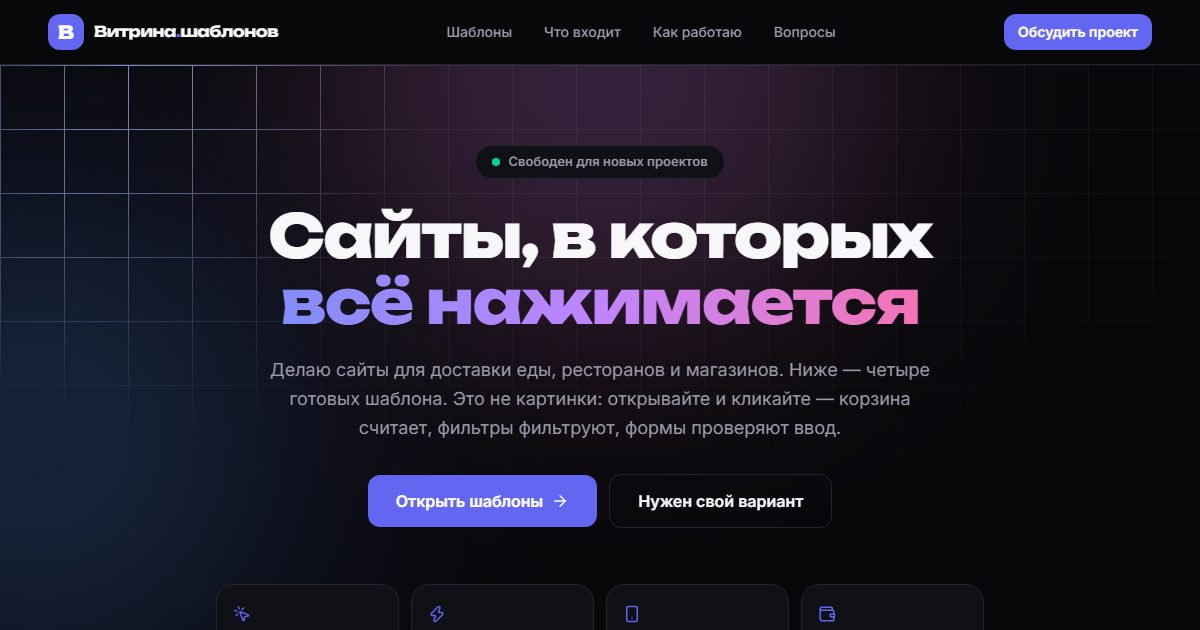
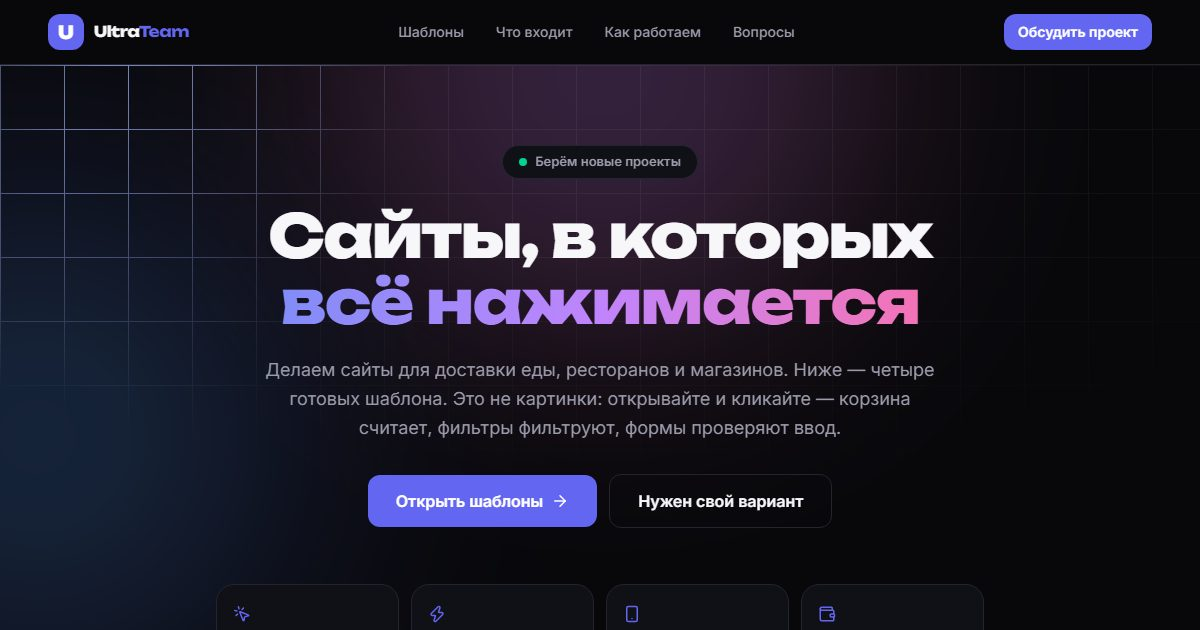
feat: витрина от имени команды UltraTeam, шрифты со своего сайта
Витрина теперь говорит от лица команды: название UltraTeam в шапке,
подвале, заголовке вкладки, иконке сайта, превью ссылок и подписи писем
с заявками. Тексты переведены с «я» на «мы». Из FAQ убрана устаревшая
фраза про «сгенерированные иллюстрации» — в демо давно настоящие фото.
Оговорка про вымышленные контакты в подвале теперь относится только
к демо-шаблонам, а не к настоящей почте рядом.

Шрифты раздаются с нашего сайта через пакеты Fontsource вместо Google
Fonts: минус два сторонних подключения и никакой зависимости от серверов
Google. Вес не изменился, страницы отрисовываются пиксель в пиксель
как раньше.

diff --git a/src/showcase/ShowcaseContact.tsx b/src/showcase/ShowcaseContact.tsx
@@ -22,19 +22,19 @@ const FAQ = [
   },
   {
     q: 'Сколько стоит поддержка?',
-    a: 'Первый месяц после запуска — бесплатно: правлю опечатки, меняю цены, чиню всё, что всплывёт. Дальше — почасово или небольшим ежемесячным пакетом, зависит от того, как часто нужно обновлять контент.',
+    a: 'Первый месяц после запуска — бесплатно: правим опечатки, меняем цены, чиним всё, что всплывёт. Дальше — почасово или небольшим ежемесячным пакетом, зависит от того, как часто нужно обновлять контент.',
   },
   {
     q: 'Кто делает тексты и фотографии?',
-    a: 'Фотографии — с вашей стороны, это критично: стоковые картинки еды видно сразу, и они снижают доверие. Тексты могу написать по вашим тезисам. В демо вместо фотографий стоят сгенерированные иллюстрации — в реальном проекте на их место встают ваши снимки.',
+    a: 'Фотографии — с вашей стороны, это критично: стоковые картинки еды видно сразу, и они снижают доверие. Тексты можем написать по вашим тезисам. В демо стоят стоковые фото — в реальном проекте на их место встают ваши снимки.',
   },
   {
     q: 'Что с хостингом и доменом?',
-    a: 'Статический сайт бесплатно живёт на Vercel или Netlify — платить нужно только за домен, это примерно 200–1500 ₽ в год в зависимости от зоны. Настройку беру на себя, аккаунты регистрируем на вас, чтобы доступы остались у вас.',
+    a: 'Статический сайт бесплатно живёт на Vercel или Netlify — платить нужно только за домен, это примерно 200–1500 ₽ в год в зависимости от зоны. Настройку берём на себя, аккаунты регистрируем на вас, чтобы доступы остались у вас.',
   },
   {
     q: 'А если мне не понравится результат?',
-    a: 'Работаю поэтапно. После прототипа вы видите живой сайт и решаете, идём дальше или нет. Если на этом этапе не нравится — расходимся, предоплата за прототип остаётся у меня, остальное не платите.',
+    a: 'Работаем поэтапно. После прототипа вы видите живой сайт и решаете, идём дальше или нет. Если на этом этапе не нравится — расходимся, предоплата за прототип остаётся у нас, остальное не платите.',
   },
 ]
 
@@ -100,7 +100,7 @@ const FORM_ENDPOINT = 'https://api.web3forms.com/submit'
 
 const CONTACTS = [
   { icon: Mail, label: 'Почта', value: EMAIL, href: `mailto:${EMAIL}` },
-  { icon: Clock, label: 'Отвечаю', value: 'Пн–Пт, 10:00–20:00 МСК', href: undefined },
+  { icon: Clock, label: 'Отвечаем', value: 'Пн–Пт, 10:00–20:00 МСК', href: undefined },
 ]
 
 type ContactErrors = Partial<Record<'name' | 'contact' | 'message', string>>
@@ -187,7 +187,7 @@ ${message}`
       }
 
       setSent(true)
-      toast('Заявка отправлена — отвечу в течение дня')
+      toast('Заявка отправлена — ответим в течение дня')
     } catch {
       // Сервис может быть недоступен или заблокирован. Молча «терять» заявку нельзя:
       // показываем прямые контакты и готовое письмо.
@@ -219,7 +219,7 @@ ${message}`
           </span>
           <h2 className="mt-5 font-head text-2xl font-bold text-ink">Заявка принята</h2>
           <p className="mx-auto mt-3 max-w-md text-[15px] leading-relaxed text-ink-soft">
-            {name}, спасибо. Отвечу в течение рабочего дня и пришлю несколько уточняющих вопросов
+            {name}, спасибо. Ответим в течение рабочего дня и пришлём несколько уточняющих вопросов
             по проекту «{topic}».
           </p>
           <Button variant="outline" className="mt-6" onClick={reset}>
@@ -237,7 +237,7 @@ ${message}`
           <SectionHeading
             eyebrow="Контакты"
             title="Расскажите, что нужно"
-            subtitle="Напишите пару предложений о бизнесе и о том, что должен делать сайт. Отвечу в течение рабочего дня и назову срок и цену."
+            subtitle="Напишите пару предложений о бизнесе и о том, что должен делать сайт. Ответим в течение рабочего дня и назовём срок и цену."
           />
           <ul className="mt-8 flex flex-col gap-3">
             {CONTACTS.map(({ icon: Icon, label, value, href }) => {
@@ -354,7 +354,7 @@ ${message}`
           )}
 
           <Button type="submit" size="lg" full disabled={sending}>
-            {sending ? 'Отправляю…' : 'Отправить заявку'}
+            {sending ? 'Отправляем…' : 'Отправить заявку'}
             {!sending && <Send size={17} />}
           </Button>
           <p className="text-center text-[13px] text-ink-soft">
@@ -374,10 +374,10 @@ export function ShowcaseFooter() {
       <div className="mx-auto flex w-full max-w-6xl flex-col gap-6 sm:flex-row sm:items-center sm:justify-between">
         <div>
           <span className="font-head text-[15px] font-bold">
-            Витрина<span className="text-brand">.</span>шаблонов
+            Ultra<span className="text-brand">Team</span>
           </span>
           <p className="mt-1 text-[13px] text-ink-soft">
-            Демонстрационный проект. Все компании, цены и контакты — вымышленные.
+            Компании, товары и контакты в демо-шаблонах вымышленные.
             <br />
             Фотографии — Unsplash.
           </p>

diff --git a/src/showcase/ShowcasePage.tsx b/src/showcase/ShowcasePage.tsx
@@ -9,7 +9,7 @@ import { ContactSection, FaqSection, ShowcaseFooter } from './ShowcaseContact'
 const NAV = [
   { href: '#templates', label: 'Шаблоны' },
   { href: '#features', label: 'Что входит' },
-  { href: '#process', label: 'Как работаю' },
+  { href: '#process', label: 'Как работаем' },
   { href: '#faq', label: 'Вопросы' },
 ]
 
@@ -28,10 +28,10 @@ function Header() {
       <div className="mx-auto flex h-16 w-full max-w-6xl items-center justify-between gap-4 px-4 sm:px-6">
         <a href="#top" className="flex items-center gap-2.5">
           <span className="grid h-9 w-9 place-items-center rounded-xl bg-brand text-on-brand font-head text-lg font-extrabold">
-            В
+            U
           </span>
           <span className="font-head text-[15px] font-bold tracking-tight">
-            Витрина<span className="text-brand">.</span>шаблонов
+            Ultra<span className="text-brand">Team</span>
           </span>
         </a>
 
@@ -167,7 +167,7 @@ function Hero() {
             <span className="absolute inline-flex h-full w-full animate-ping rounded-full bg-emerald-400 opacity-70" />
             <span className="relative inline-flex h-2 w-2 rounded-full bg-emerald-400" />
           </span>
-          Свободен для новых проектов
+          Берём новые проекты
         </span>
 
         <h1 className="mt-6 font-head text-[2.1rem] font-extrabold leading-[1.1] tracking-tight sm:text-5xl md:text-6xl">
@@ -179,7 +179,7 @@ function Hero() {
         </h1>
 
         <p className="mx-auto mt-5 max-w-2xl text-[17px] leading-relaxed text-ink-soft sm:text-lg">
-          Делаю сайты для доставки еды, ресторанов и магазинов. Ниже — четыре готовых шаблона.
+          Делаем сайты для доставки еды, ресторанов и магазинов. Ниже — четыре готовых шаблона.
           Это не картинки: открывайте и кликайте — корзина считает, фильтры фильтруют, формы
           проверяют ввод.
         </p>
@@ -213,7 +213,7 @@ function Hero() {
 
 export function ShowcasePage() {
   useDocumentMeta(
-    'Витрина шаблонов сайтов — портфолио веб-разработчика',
+    'UltraTeam — сайты для доставки еды, ресторанов и магазинов',
     'Живые интерактивные шаблоны сайтов: доставка суши, ресторан, интернет-магазин, магазин игрушек.',
   )
   useRevealOnScroll()

diff --git a/src/index.css b/src/index.css
@@ -5,7 +5,7 @@
    Каждый шаблон переопределяет переменные внутри своего .theme-*
    ============================================================ */
 :root {
-  --font-ui: "Inter", ui-sans-serif, system-ui, -apple-system, sans-serif;
+  --font-ui: "Inter Variable", ui-sans-serif, system-ui, -apple-system, sans-serif;
   --font-head: var(--font-ui);
 
   --surface: #ffffff;
@@ -27,8 +27,8 @@
 
 /* ---------- Витрина: тёмная «агентская» ---------- */
 .theme-showcase {
-  --font-ui: "Inter", ui-sans-serif, system-ui, sans-serif;
-  --font-head: "Unbounded", "Inter", sans-serif;
+  --font-ui: "Inter Variable", ui-sans-serif, system-ui, sans-serif;
+  --font-head: "Unbounded Variable", "Inter Variable", sans-serif;
   --surface: #08080b;
   --surface-2: #101017;
   --surface-3: #191922;
@@ -46,8 +46,8 @@
 
 /* ---------- Суши: тёмная, красно-золотая ---------- */
 .theme-sushi {
-  --font-ui: "Inter", ui-sans-serif, system-ui, sans-serif;
-  --font-head: "Unbounded", "Inter", sans-serif;
+  --font-ui: "Inter Variable", ui-sans-serif, system-ui, sans-serif;
+  --font-head: "Unbounded Variable", "Inter Variable", sans-serif;
   --surface: #0f0f13;
   --surface-2: #17171d;
   --surface-3: #202028;
@@ -65,8 +65,8 @@
 
 /* ---------- Ресторан: светлая, кремово-бронзовая ---------- */
 .theme-restaurant {
-  --font-ui: "Inter", ui-sans-serif, system-ui, sans-serif;
-  --font-head: "Playfair Display", Georgia, serif;
+  --font-ui: "Inter Variable", ui-sans-serif, system-ui, sans-serif;
+  --font-head: "Playfair Display Variable", Georgia, serif;
   --surface: #fbf8f3;
   --surface-2: #ffffff;
   --surface-3: #f2ece1;
@@ -84,8 +84,8 @@
 
 /* ---------- Магазин: светлая, синяя, «доверие» ---------- */
 .theme-shop {
-  --font-ui: "Manrope", "Inter", sans-serif;
-  --font-head: "Manrope", "Inter", sans-serif;
+  --font-ui: "Manrope Variable", "Inter Variable", sans-serif;
+  --font-head: "Manrope Variable", "Inter Variable", sans-serif;
   --surface: #ffffff;
   --surface-2: #f4f6f9;
   --surface-3: #e8ecf2;
@@ -103,8 +103,8 @@
 
 /* ---------- Игрушки: светлая, фиолетово-жёлтая, круглая ---------- */
 .theme-toys {
-  --font-ui: "Nunito", "Inter", sans-serif;
-  --font-head: "Nunito", "Inter", sans-serif;
+  --font-ui: "Nunito Variable", "Inter Variable", sans-serif;
+  --font-head: "Nunito Variable", "Inter Variable", sans-serif;
   --surface: #fffdf8;
   --surface-2: #ffffff;
   --surface-3: #fdf0dd;

diff --git a/src/showcase/ShowcaseSections.tsx b/src/showcase/ShowcaseSections.tsx
@@ -121,7 +121,7 @@ const FEATURES = [
   {
     icon: Smartphone,
     title: 'Адаптив от 320 px',
-    text: 'Проверяю на телефоне, планшете и десктопе. Меню сворачивается в бургер, сетки не разъезжаются, ничего не уезжает за экран.',
+    text: 'Проверяем на телефоне, планшете и десктопе. Меню сворачивается в бургер, сетки не разъезжаются, ничего не уезжает за экран.',
   },
   {
     icon: Gauge,
@@ -146,7 +146,7 @@ const FEATURES = [
   {
     icon: Package,
     title: 'Исходники ваши',
-    text: 'Отдаю репозиторий целиком. Хотите — дорабатываете сами или зовёте любого другого разработчика.',
+    text: 'Отдаём репозиторий целиком. Хотите — дорабатываете сами или зовёте любого другого разработчика.',
   },
 ]
 
@@ -182,13 +182,13 @@ const STEPS = [
   {
     icon: MessageCircle,
     title: 'Разговор',
-    text: 'Созваниваемся на 20 минут. Выясняю, что продаёте, кому и что должно происходить на сайте.',
+    text: 'Созваниваемся на 20 минут. Выясняем, что продаёте, кому и что должно происходить на сайте.',
     time: '1 день',
   },
   {
     icon: PenTool,
     title: 'Прототип',
-    text: 'Собираю кликабельный макет из подходящего шаблона с вашими текстами и товарами.',
+    text: 'Собираем кликабельный макет из подходящего шаблона с вашими текстами и товарами.',
     time: '2–4 дня',
   },
   {
@@ -200,7 +200,7 @@ const STEPS = [
   {
     icon: Rocket,
     title: 'Запуск',
-    text: 'Подключаю домен, настраиваю хостинг и аналитику. Показываю, как менять тексты и цены.',
+    text: 'Подключаем домен, настраиваем хостинг и аналитику. Показываем, как менять тексты и цены.',
     time: '1 день',
   },
 ]

diff --git a/index.html b/index.html
@@ -4,16 +4,10 @@
     <meta charset="UTF-8" />
     <meta name="viewport" content="width=device-width, initial-scale=1.0" />
     <link rel="icon" type="image/svg+xml" href="/favicon.svg" />
-    <title>Витрина шаблонов сайтов — портфолио веб-разработчика</title>
+    <title>UltraTeam — сайты для доставки еды, ресторанов и магазинов</title>
     <meta
       name="description"
       content="Живые интерактивные шаблоны сайтов: доставка суши, ресторан, интернет-магазин, магазин игрушек. Кликабельные демо с рабочей корзиной и формами."
-    />
-    <link rel="preconnect" href="https://fonts.googleapis.com" />
-    <link rel="preconnect" href="https://fonts.gstatic.com" crossorigin />
-    <link
-      href="https://fonts.googleapis.com/css2?family=Inter:wght@400;500;600;700;800&family=Manrope:wght@400;500;600;700;800&family=Nunito:wght@400;600;700;800;900&family=Playfair+Display:wght@500;600;700&family=Unbounded:wght@500;600;700;800&display=swap"
-      rel="stylesheet"
     />
   </head>
   <body>

diff --git a/src/main.tsx b/src/main.tsx
@@ -2,6 +2,14 @@ import { StrictMode } from 'react'
 import { createRoot } from 'react-dom/client'
 import { BrowserRouter } from 'react-router-dom'
 import App from './App'
+// Шрифты раздаются с нашего сайта, а не с Google: не зависят от чужого сервера
+// и не требуют лишних подключений. Браузер скачивает только те алфавиты
+// (латиница, кириллица), которые реально встречаются на странице.
+import '@fontsource-variable/inter'
+import '@fontsource-variable/manrope'
+import '@fontsource-variable/nunito'
+import '@fontsource-variable/playfair-display'
+import '@fontsource-variable/unbounded'
 import './index.css'
 
 // Позицией прокрутки управляем сами (ScrollToTop в App),

diff --git a/vite.config.ts b/vite.config.ts
@@ -139,7 +139,7 @@ function githubPagesFiles(): Plugin {
           path: '',
           ...readMeta(html),
           image: ogImage('showcase.jpg'),
-          imageAlt: 'Витрина шаблонов сайтов: доставка суши, ресторан, магазин техники и игрушек',
+          imageAlt: `${SITE_NAME}: шаблоны сайтов для доставки суши, ресторана, магазинов техники и игрушек`,
         }),
       )
 

diff --git a/src/showcase/templates.ts b/src/showcase/templates.ts
@@ -1,5 +1,5 @@
 /** Название сайта — в превью ссылок и в подписи писем с заявками. */
-export const SITE_NAME = 'Витрина шаблонов'
+export const SITE_NAME = 'UltraTeam'
 
 export type TemplateMeta = {
   slug: string

diff --git a/README.md b/README.md
@@ -1,6 +1,6 @@
-# Витрина шаблонов сайтов
+# UltraTeam — витрина шаблонов сайтов
 
-Портфолио веб-разработчика: одна витрина и четыре живых демо-шаблона, которые можно открыть
+Портфолио команды UltraTeam: одна витрина и четыре живых демо-шаблона, которые можно открыть
 и потыкать. Кнопки не декоративные — корзина считает, фильтры фильтруют, формы проверяют ввод.
 
 | Шаблон | Адрес | Что внутри |
@@ -96,12 +96,18 @@ src/
   --ink-soft: #a29fa8;    /* второстепенный текст */
   --line: #2b2b35;        /* границы */
   --radius: 16px;         /* скругление карточек */
-  --font-head: "Unbounded", sans-serif;  /* шрифт заголовков */
+  --font-head: "Unbounded Variable", sans-serif;  /* шрифт заголовков */
 }
 ```
 
-Шрифты подключаются в `index.html` через Google Fonts. Берите только те начертания, которые
-реально используете, — каждое лишнее замедляет загрузку.
+Шрифты лежат в проекте, а не грузятся с Google: пакеты `@fontsource-variable/*`, подключены
+в `src/main.tsx`. Так сайт не зависит от чужого сервера и открывается без лишних подключений.
+Браузер скачивает только нужные алфавиты — латиницу и кириллицу.
+
+Чтобы поставить другой шрифт, найдите его на [fontsource.org](https://fontsource.org),
+установите (`npm i @fontsource-variable/<название>`), добавьте импорт в `src/main.tsx`
+и впишите название семейства с припиской `Variable` в `--font-ui` или `--font-head`.
+Неиспользуемый шрифт лучше убрать и из импортов, и из зависимостей.
 
 ### Фотографии товаров
 
